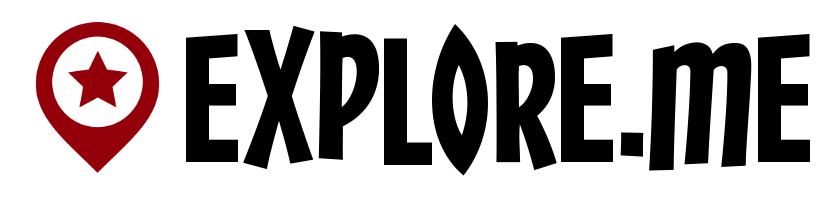
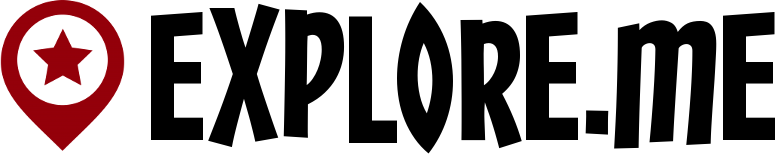
fixed images

diff --git a/app/assets/stylesheets/style.css.scss b/app/assets/stylesheets/style.css.scss
@@ -215,6 +215,11 @@ hr.small {
 
 /* Brand Image Admin side */
 
+.img-logo{
+  max-width: 62%;
+  width: 100%;
+}
+
 .brand{
   margin-top: 6px;
   width: 36px;
